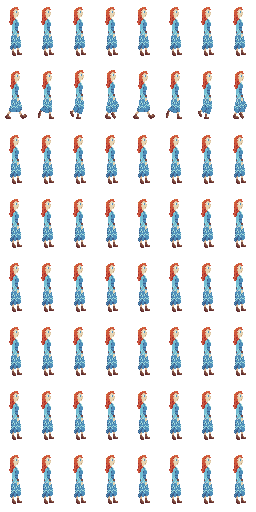
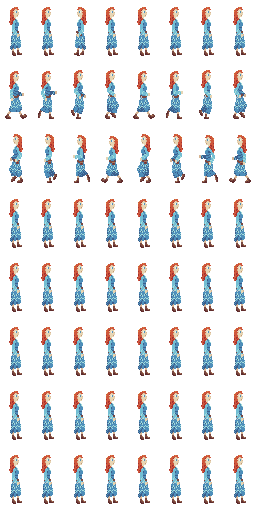
(can't quite remember)

diff --git a/src/player.rs b/src/player.rs
@@ -2,8 +2,6 @@
 use bevy::prelude::*;
 use leafwing_input_manager::prelude::*;
 
-use super::palletize;
-
 pub struct PlayerPlugin;
 
 impl Plugin for PlayerPlugin {
@@ -12,7 +10,8 @@ impl Plugin for PlayerPlugin {
 			.add_plugin(InputManagerPlugin::<Action>::default())
 			.add_startup_system(player_setup)
 			.add_system(player_movement)
-			.add_system(player_sprite_update.after(player_movement));
+			.add_system(player_sprite_update.after(player_movement))
+			.add_system(update_player_animation.after(player_movement));
 	}
 }
 
@@ -37,25 +36,6 @@ fn player_setup(
 		)
 	);
 	
-	// Animation stuff
-	/*let starting_state = "idle";
-	let states_map = HashMap::from([
-		("idle".to_string(), AnimationState{
-			name: "idle".to_string(),
-			clip: idle_clip_handle,
-			interruptible: true,
-		}),
-		("walk".to_string(), AnimationState{
-			name: "walk".to_string(),
-			clip: walk_clip_handle,
-			interruptible: true,
-		}),
-	]);
-	let state_transitions = vec![
-		StateMachineTransition {
-			
-		}
-	];*/
 	
 	
 	// Spawn the player
@@ -73,6 +53,16 @@ fn player_setup(
 			parent
 				.spawn()
 				.insert(PlayerSpriteMarker)
+				.insert(AnimationTimer(Timer::from_seconds(1.0 / 7.0, true)))
+				.insert(AnimationNextState{
+					state: AnimationGeneralState::Idle,
+					facing_dir: FacingDir::Right,
+				})
+				.insert(AnimationCurrentState {
+					state: AnimationState::IdleRight, 
+					index:0,
+				})
+				.insert(SpriteOffset(Vec3::new(0.0, 24.0, 0.0)))
 				.insert_bundle(SpriteSheetBundle {
 					texture_atlas: texture_atlas,
 					..default()
@@ -80,16 +70,25 @@ fn player_setup(
 		});
 }
 
+#[derive(Component, Debug)]
+struct SpriteOffset(Vec3);
+
+
+// Make sprites look nice in our sort-of-3d environment
 fn player_sprite_update(
 	player_query: Query<&Transform, 
 		(With<Player>, Without<PlayerSpriteMarker>, Without<Camera>)>,
-	mut sprite_query: Query<&mut Transform, 
+	mut sprite_query: Query<(&mut Transform, Option<&SpriteOffset>),
 		(With<PlayerSpriteMarker>, Without<Player>, Without<Camera>)>,
 	camera_query: Query<&Transform, 
-		(With<Camera>, Without<Player>, Without<PlayerSpriteMarker>, Without<palletize::PostProcessCameraMarker>)>,
+		(With<Camera>, Without<Player>, Without<PlayerSpriteMarker>)>,
 ) {
 	let player_position = player_query.single().translation;
-	let mut sprite_transform = sprite_query.single_mut();
+	let (mut sprite_transform, maybe_offset) = sprite_query.single_mut();
+	let sprite_offset = match maybe_offset {
+		Some(SpriteOffset(o)) => *o,
+		None => Vec3::ZERO,
+	};
 	
 	let camera_transform = camera_query.iter().next().expect("no camera found!");
 
@@ -97,7 +96,7 @@ fn player_sprite_update(
 	let camera_inverse = Transform::from_matrix(
 		camera_transform.compute_matrix().inverse()
 	);
-	let player_camera_loc = camera_inverse * player_position;
+	let player_camera_loc = camera_inverse * (player_position + camera_transform.rotation * sprite_offset);
 	
 	// Then, we want to set the sprite to be pixel-aligned
 	let target_position = player_camera_loc.round();
@@ -108,16 +107,194 @@ fn player_sprite_update(
 }
 
 
+// Animation stuffs
+// NOTE: to generalize: turn this into a trait?
+#[derive(Debug, Clone, Copy, Hash, PartialEq)]
+pub enum AnimationState {
+	IdleRight,
+	IdleLeft,
+	WalkRight,
+	WalkLeft,
+}
+impl AnimationState {	
+	/// Returns the start offset of the animation
+	fn offset(&self) -> usize {
+		match self {
+			AnimationState::IdleRight => 0,
+			AnimationState::IdleLeft => 2,
+			AnimationState::WalkRight => 8,
+			AnimationState::WalkLeft => 16,
+		}
+	}
+	
+	fn length(&self) -> usize {
+		match self {
+			AnimationState::IdleRight => 1,
+			AnimationState::IdleLeft => 1,
+			AnimationState::WalkRight => 8,
+			AnimationState::WalkLeft => 8,
+		}
+	}
+	
+	fn is_interruptible(&self) -> bool {
+		match self {
+			AnimationState::IdleRight => true,
+			AnimationState::IdleLeft => true,
+			AnimationState::WalkRight => true,
+			AnimationState::WalkLeft => true,
+		}
+	}
+	
+	fn get_priority(&self) -> i32 {
+		self.get_general_state().get_priority()
+	}
+	
+	fn order_is_reversed(&self) -> bool {
+		match self {
+			AnimationState::IdleRight => false,
+			AnimationState::IdleLeft => false,
+			AnimationState::WalkRight => false,
+			AnimationState::WalkLeft => true,
+		}
+	}
+	
+	fn get_general_state(&self) -> AnimationGeneralState {
+		match self {
+			AnimationState::IdleRight => AnimationGeneralState::Idle,
+			AnimationState::IdleLeft => AnimationGeneralState::Idle,
+			AnimationState::WalkRight => AnimationGeneralState::Walk,
+			AnimationState::WalkLeft => AnimationGeneralState::Walk,
+		}
+	}
+}
+
+#[derive(Debug, PartialEq, Clone, Copy)]
+enum FacingDir {
+	Left,
+	Right
+}
+#[derive(Debug, PartialEq, Clone, Copy)]
+enum AnimationGeneralState {
+	Idle,
+	Walk,
+	//Casting,
+}
+
+impl AnimationGeneralState {
+	fn get_default_next_state(&self) -> AnimationGeneralState {
+		match self {
+			AnimationGeneralState::Idle => AnimationGeneralState::Idle,
+			AnimationGeneralState::Walk => AnimationGeneralState::Walk,
+		}
+	}
+	
+	fn get_priority(&self) -> i32 {
+		match self {
+			AnimationGeneralState::Idle => 0,
+			AnimationGeneralState::Walk => 0,
+		}
+	}
+}
+
+fn get_animation_state(facing_dir: FacingDir, animation_gen_state: AnimationGeneralState) -> AnimationState {
+	match animation_gen_state {
+		AnimationGeneralState::Idle => match facing_dir {
+			FacingDir::Left => AnimationState::IdleLeft,
+			FacingDir::Right => AnimationState::IdleRight,
+		},
+		AnimationGeneralState::Walk => match facing_dir {
+			FacingDir::Left => AnimationState::WalkLeft,
+			FacingDir::Right => AnimationState::WalkRight,
+		}
+	}
+}
+
+// All of these are needed for it to function
+#[derive(Component, Deref, DerefMut)]
+struct AnimationTimer(Timer);
+// TODO make this one have a vec of the next states to look at
+#[derive(Component, Debug)]
+pub struct AnimationNextState {
+	state: AnimationGeneralState, 
+	facing_dir: FacingDir
+}
+#[derive(Component, Debug)]
+struct AnimationCurrentState {
+	state: AnimationState, 
+	index: usize,
+}
+
+impl AnimationNextState {
+	pub fn set_state_if_priority(&mut self, new_state: AnimationGeneralState) {
+		if new_state.get_priority() >= self.state.get_priority() {
+			self.state = new_state;
+		}
+	}
+}
+
+// Handles updating player animations
+fn update_player_animation(
+	time: Res<Time>,
+	mut query: Query<
+		(&mut AnimationTimer, &mut AnimationCurrentState, &mut AnimationNextState, &mut TextureAtlasSprite), 
+		With<PlayerSpriteMarker>
+	>,
+) {
+	for (mut timer, mut current_state, mut next_state, mut sprite) in &mut query {
+		// update timer
+		timer.tick(time.delta());
+		// Determine if the next animation should interrupt the current one
+		let next_transition_state = get_animation_state(next_state.facing_dir, next_state.state);
+		let interrupt = 
+			next_transition_state != current_state.state 
+			&& current_state.state.is_interruptible() 
+			&& next_transition_state.get_priority() >= current_state.state.get_priority();
+		let interrupt_immediate = interrupt
+			&& next_transition_state.get_priority() > current_state.state.get_priority();
+		
+		if timer.just_finished() || interrupt_immediate {
+			if interrupt_immediate {
+				timer.reset();
+			}
+			
+			current_state.index += 1;
+			
+			// Figure out if we need to transition
+			if current_state.index >= current_state.state.length() || interrupt {
+				// Reset index
+				current_state.index = 0;
+				// Find the default state to transition to after this one
+				let default_next_state = next_state.state.get_default_next_state();
+				// Do the transition
+				current_state.state = next_transition_state;
+				
+				next_state.state = default_next_state;
+			}
+			
+			// Update sprite index
+			sprite.index = if current_state.state.order_is_reversed() {
+				current_state.state.offset() + (current_state.state.length() - current_state.index - 1)
+			} else {
+				current_state.state.offset() + current_state.index
+			};
+		}
+	}
+}
+
+
+// Movement
 #[derive(Component, Default, Debug)]
 struct PlayerSpeed(Vec3);
 
 fn player_movement(
 	action_state: Query<&ActionState<Action>, With<Player>>,
 	mut player_query: Query<(&mut Transform, &mut PlayerSpeed), With<Player>>,
+	mut anim_query: Query<&mut AnimationNextState, With<PlayerSpriteMarker>>,
 	time: Res<Time>,
 ) {
 	let action_state = action_state.single();
 	let (mut transform, mut speed) = player_query.single_mut();
+	let mut anim_next_state = anim_query.single_mut();
 	
 	let mut total_offset = Vec3::splat(0.0);
 	
@@ -143,12 +320,24 @@ fn player_movement(
 	
 	// Update position
 	transform.translation += speed.0 * time.delta_seconds();
+	
+	// Update animation info
+	if speed.0.x > 0.1 {
+		anim_next_state.facing_dir = FacingDir::Right;
+	} else if speed.0.x < -0.1 {
+		anim_next_state.facing_dir = FacingDir::Left;
+	}
+	anim_next_state.set_state_if_priority(if speed.0.length() > 1.0 {
+		AnimationGeneralState::Walk
+	} else {
+		AnimationGeneralState::Idle
+	});
 }
 
-const SPEED: f32 = 60.0;
-const ACCEL_FORWARD: f32 = 480.0;
-const ACCEL_NEUTRAL: f32 = 240.0;
-const ACCEL_DECEL: f32 = 360.0;
+const SPEED: f32 = 70.0;
+const ACCEL_FORWARD: f32 = 560.0;
+const ACCEL_NEUTRAL: f32 = 360.0;
+const ACCEL_DECEL: f32 = 480.0;
 
 /// Moves from start towards limit up to amt.
 fn move_not_past(start: f32, amt: f32, limit: f32) -> f32 {

diff --git a/src/main.rs b/src/main.rs
@@ -8,7 +8,6 @@ use bevy::{
 			texture::ImageSettings,
 		},
 };
-//use bevy_simple_state_machine::SimpleStateMachinePlugin;
 
 mod player;
 mod spells;
@@ -23,18 +22,13 @@ fn main() {
         .insert_resource(ImageSettings::default_nearest())
 		.insert_resource(Msaa {samples: 1})
         .add_plugins(DefaultPlugins)
-		//.add_plugin(SimpleStateMachinePlugin::new())
 		.add_plugin(player::PlayerPlugin)
         .add_startup_system(setup)
         .run();
 }
 
-const HALF_SIZE: f32 = 10.0;
-
 fn setup(
 	mut commands: Commands,
-    mut meshes: ResMut<Assets<Mesh>>,
-    mut materials: ResMut<Assets<StandardMaterial>>,
 	asset_server: Res<AssetServer>,
 ) {
 	let orthographic_projection = OrthographicProjection {

diff --git a/src/spells.rs b/src/spells.rs
@@ -1,0 +1,30 @@
+
+use bevy::prelude::*;
+
+
+// Defining spell info ///////
+struct SpellData {
+	shape: SpellShape,
+	effects: Vec<SpellEffect>,
+}
+
+enum SpellElement {
+	Neutral,
+	Fire,
+	Water,
+	Earth,
+	Air,
+}
+
+enum SpellShape {
+	Orb,
+	Line,
+}
+
+enum SpellEffect {
+	Damage {
+		amt: i64,
+		element: SpellElement,
+	},
+	CreateOnImpact(SpellData),
+}
